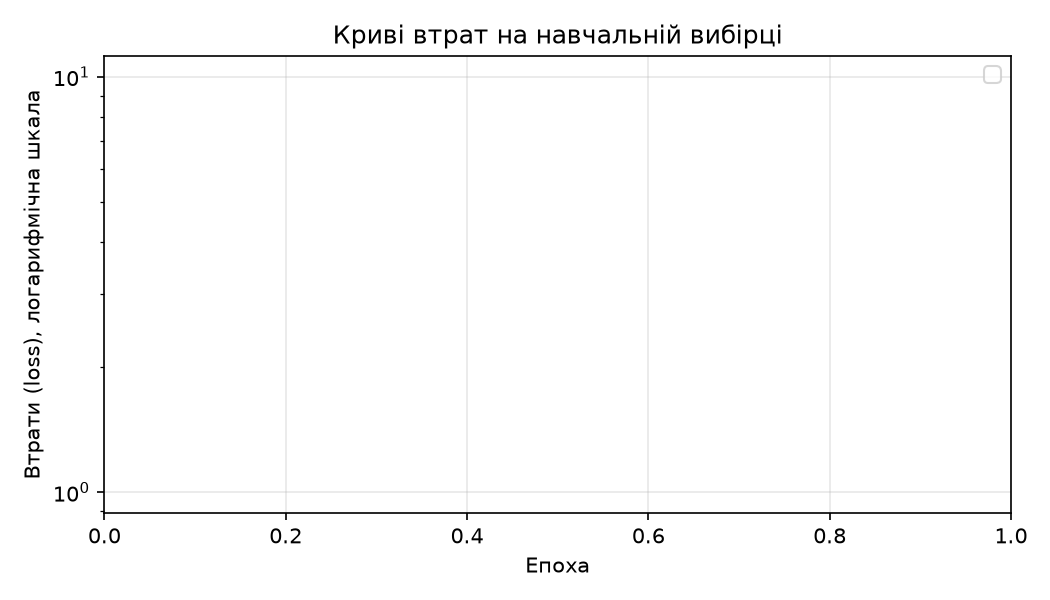
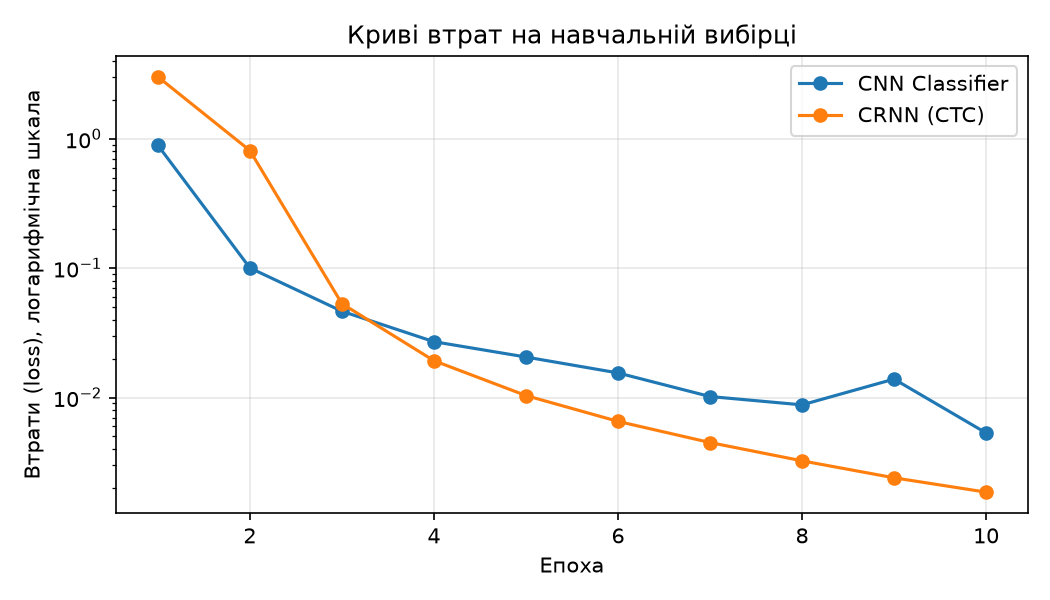
fixed confusion curve plot

diff --git a/src/trainer.py b/src/trainer.py
@@ -2,20 +2,22 @@ import torch
 import torch.nn as nn
 import time
 
+
 def train(model, train_loader, val_loader, epochs=10):
     loss_fn = nn.CrossEntropyLoss()
     optimizer = torch.optim.Adam(model.parameters(), lr=1e-3)
     total_train_s = 0.0
+    losses = []
     for epoch in range(epochs):
         model.train()
         t_train = time.perf_counter()
         total_loss = 0.0
         for x, y in train_loader:
-            optimizer.zero_grad()            
-            scores = model(x)   
+            optimizer.zero_grad()
+            scores = model(x)
             loss = loss_fn(scores.view(-1, 10), y.view(-1))
-            loss.backward()                  
-            optimizer.step()                
+            loss.backward()
+            optimizer.step()
             total_loss += loss.item()
         total_train_s += time.perf_counter() - t_train
 
@@ -26,23 +28,26 @@ def train(model, train_loader, val_loader, epochs=10):
         with torch.no_grad():
             for x, y in val_loader:
                 scores = model(x)
-                predicted = scores.argmax(dim=2)                        # [64, 5]
-                digit_correct += (predicted == y).sum().item()          # per-digit count
+                predicted = scores.argmax(dim=2)                          # [64, 5]
+                digit_correct += (predicted == y).sum().item()            # per-digit count
                 full_correct += (predicted == y).all(dim=1).sum().item()  # whole-number count
-        
-        infer_ms = (time.perf_counter() - t_val) * 1000 / len(val_loader.dataset)                        
+
+        infer_ms = (time.perf_counter() - t_val) * 1000 / len(val_loader.dataset)
         avg_loss = total_loss / len(train_loader)
-        
+        losses.append(avg_loss)
+
         n = len(val_loader.dataset)
         print(f"epoch {epoch+1}: loss {avg_loss:.4f}, digit acc {digit_correct/(n*5):.3f}, full acc {full_correct/n:.3f}")
-    train_ms = (time.perf_counter() - total_train_s) * 1000
+
     return {
         "digit_acc": digit_correct / (n * 5),
         "full_acc": full_correct / n,
         "train_ms_per_epoch": total_train_s * 1000 / epochs,
         "infer_ms": infer_ms,
+        "losses": losses,
     }
-    
+
+
 def ctc_decode(seq):
     result = []
     prev = None
@@ -51,24 +56,26 @@ def ctc_decode(seq):
             result.append(v)
         prev = v
     return result
-            
+
+
 def train_crnn(model, train_loader, val_loader, epochs=10):
     loss_fn = nn.CTCLoss(blank=10)
     optimizer = torch.optim.Adam(model.parameters(), lr=1e-3)
     total_train_s = 0.0
+    losses = []
     for epoch in range(epochs):
         model.train()
         t_train = time.perf_counter()
         total_loss = 0.0
         for x, y in train_loader:
-            optimizer.zero_grad()            
-            scores = model(x)   
-            log_probs = scores.log_softmax(2).permute(1, 0, 2)                  # [40, batch, 11]
+            optimizer.zero_grad()
+            scores = model(x)
+            log_probs = scores.log_softmax(2).permute(1, 0, 2)   # [40, batch, 11]
             input_lengths = torch.full((x.size(0),), 40, dtype=torch.long)
             target_lengths = torch.full((x.size(0),), 5, dtype=torch.long)
             loss = loss_fn(log_probs, y, input_lengths, target_lengths)
-            loss.backward()                  
-            optimizer.step()                
+            loss.backward()
+            optimizer.step()
             total_loss += loss.item()
         total_train_s += time.perf_counter() - t_train
 
@@ -85,16 +92,18 @@ def train_crnn(model, train_loader, val_loader, epochs=10):
                     target = target.tolist()
                     full_correct += (decoded == target)
                     digit_correct += sum(a == b for a, b in zip(decoded, target))
-        
-        infer_ms = (time.perf_counter() - t_val) * 1000 / len(val_loader.dataset)                        
+
+        infer_ms = (time.perf_counter() - t_val) * 1000 / len(val_loader.dataset)
         avg_loss = total_loss / len(train_loader)
-        
+        losses.append(avg_loss)
+
         n = len(val_loader.dataset)
         print(f"epoch {epoch+1}: loss {avg_loss:.4f}, digit acc {digit_correct/(n*5):.3f}, full acc {full_correct/n:.3f}")
-    
+
     return {
         "digit_acc": digit_correct / (n * 5),
         "full_acc": full_correct / n,
         "train_ms_per_epoch": total_train_s * 1000 / epochs,
         "infer_ms": infer_ms,
+        "losses": losses,
     }
